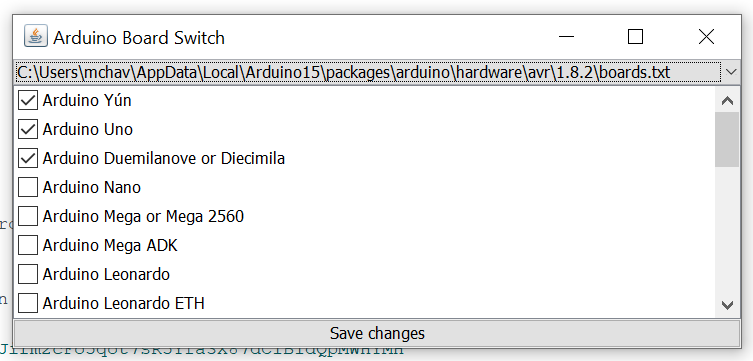
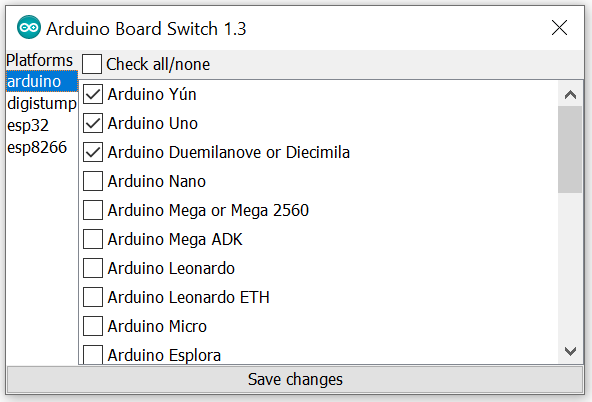
New version 1.3

Changed region(s): [[0.0, 0.0, 1.0, 1.0], [0.8209, 0.0914, 0.8818, 0.1219]]

diff --git a/org/binatrix/arduino/ArduinoBoardSwitch.java b/org/binatrix/arduino/ArduinoBoardSwitch.java
@@ -1,9 +1,12 @@
 package org.binatrix.arduino;
 
 import javax.swing.*;
+import javax.swing.event.ChangeEvent;
+import javax.swing.event.ChangeListener;
 import java.awt.BorderLayout;
 import java.awt.Container;
 import java.awt.event.*;
+import java.awt.*;
 import java.io.*;
 import java.util.*;
 import processing.app.Editor;
@@ -18,13 +21,15 @@ import processing.app.helpers.PreferencesMap;
  * Main arduino class implementing a new menu tool.
  * 
  * @author (Binatrix) 
- * @version (1.2)
+ * @version (1.3)
  */
 public class ArduinoBoardSwitch implements Tool {
     Editor editor;
     JScrollPane jlist;
     JList<CheckboxListItem> list;
     String boardFile;
+    private static final boolean ARDUINO = true;
+    private static final String VERSION = "1.3";
 
     public void init(Editor editor) {
         this.editor = editor;
@@ -36,12 +41,15 @@ public class ArduinoBoardSwitch implements Tool {
 
     @SuppressWarnings("unchecked")
     public void run() {
-        JDialog frame = new JDialog(editor, "Arduino Board Switch", true);
+        JDialog frame = new JDialog(editor, "Arduino Board Switch " + VERSION, true);
+        frame.setPreferredSize(new Dimension(600, 400));
         frame.setDefaultCloseOperation(JFrame.DISPOSE_ON_CLOSE);
         frame.addWindowListener(new WindowAdapter() {
                 @Override
                 public void windowClosed(WindowEvent e) {
-                    editor.statusNotice("Arduino Board Switch plugin closed");
+                    if (ARDUINO) {
+                        editor.statusNotice("Arduino Board Switch plugin closed");
+                    }
                 }
             });
 
@@ -51,61 +59,122 @@ public class ArduinoBoardSwitch implements Tool {
         button.addActionListener(new ActionListener() {
                 @Override
                 public void actionPerformed(ActionEvent e) {
-                    saveBoard(boardFile);
+                    if (ARDUINO) {
+                        saveBoard(boardFile);
+                    }
                 }
             });
 
         Platform[] platforms = listPlatforms();
-        JComboBox combo = new JComboBox();
+        DefaultListModel dlm = new DefaultListModel();
         for(Platform p: platforms) {
-            combo.addItem(p);
+            dlm.addElement(p);
         }
-        combo.addActionListener(new ActionListener() {
-                @Override
-                public void actionPerformed(ActionEvent e) {
-                    loadList((Platform)combo.getSelectedItem());
+        JList combo = new JList();
+        combo.setModel(dlm);
+        combo.addMouseListener(new MouseAdapter() {
+                public void mouseClicked(MouseEvent e) {
+                    if (e.getClickCount() == 1) {
+                        loadList((Platform)combo.getSelectedValue());
+                    }
                 }
             });
+        combo.addKeyListener(new KeyAdapter() {
+                public void keyPressed(KeyEvent e) {
+                    if (e.getKeyCode() == KeyEvent.VK_ENTER) {
+                        loadList((Platform)combo.getSelectedValue());
+                    }
+                }
+
+                public void keyReleased(KeyEvent e) {
+                    if (e.getKeyCode() == KeyEvent.VK_UP || e.getKeyCode() == KeyEvent.VK_DOWN) {
+                        loadList((Platform)combo.getSelectedValue());
+                    }
+                }
+            });
+        combo.setSelectedIndex(0);
+        loadList((Platform)combo.getSelectedValue());
+        /*
+        JComboBox combo = new JComboBox();
+        for(Platform p: platforms) {
+        combo.addItem(p);
+        }
+        combo.addActionListener(new ActionListener() {
+        @Override
+        public void actionPerformed(ActionEvent e) {
         loadList((Platform)combo.getSelectedItem());
+        }
+        });
+        loadList((Platform)combo.getSelectedItem());
+         */
+
+        JCheckBox check = new JCheckBox("Check all/none");
+        check.addItemListener(new ItemListener() {
+
+                public void itemStateChanged(ItemEvent e) {
+                    int est = e.getStateChange();
+                    int len = list.getModel().getSize();
+                    for(int i=0; i<len; i++) {
+                        CheckboxListItem item = (CheckboxListItem) list.getModel().getElementAt(i);
+                        item.setSelected(est == 1);
+                        list.repaint(list.getCellBounds(i, i));
+                    }
+                }
+            });
+
+        JPanel pane1 = new JPanel(new BorderLayout());
+        pane1.add(new JLabel("Platforms"), BorderLayout.NORTH);
+        pane1.add(combo, BorderLayout.CENTER);
+
+        JPanel pane2 = new JPanel(new BorderLayout());
+        pane2.add(check, BorderLayout.NORTH);
+        pane2.add(jlist, BorderLayout.CENTER);
 
         Container pane = frame.getContentPane();
-        pane.add(combo, BorderLayout.PAGE_START);
-        pane.add(jlist, BorderLayout.CENTER);
-        pane.add(button, BorderLayout.PAGE_END);
+        pane.add(pane1, BorderLayout.WEST);
+        pane.add(pane2, BorderLayout.CENTER);
+        pane.add(button, BorderLayout.SOUTH);
         frame.pack();
         frame.setLocationRelativeTo(null);
         frame.setVisible(true);
     }
 
     CheckboxListItem[] getBoards(Platform platform) {
-        List<CheckboxListItem> boards = new ArrayList<CheckboxListItem>();
-        boardFile = platform.getPath();
-        editor.statusNotice("File " + boardFile + " loaded");
+        java.util.List<CheckboxListItem> boards = new ArrayList<CheckboxListItem>();
+        if (ARDUINO) {
+            boardFile = platform.getPath();
+            editor.statusNotice("File " + boardFile + " loaded");
 
-        try {
-            TargetPackage targetPackage = BaseNoGui.getTargetPackage(platform.getPackageId());
-            if (targetPackage == null) 
-                throw new Exception("Package " + targetPackage.getId() + " not found");
-            TargetPlatform targetPlatform = targetPackage.get(platform.getId());
-            if (targetPlatform == null) 
-                throw new Exception("Platform " + platform.getId() + " not found");
-            for (TargetBoard board : targetPlatform.getBoards().values()) {
-                String tag = board.getId();
-                String name = board.getName();
-                PreferencesMap pref = board.getPreferences();
-                boolean hidden = new Boolean(pref.get("hide", "false"));
-                boards.add(new CheckboxListItem(tag, name, !hidden));
+            try {
+                TargetPackage targetPackage = BaseNoGui.getTargetPackage(platform.getPackageId());
+                if (targetPackage == null) 
+                    throw new Exception("Package " + targetPackage.getId() + " not found");
+                TargetPlatform targetPlatform = targetPackage.get(platform.getId());
+                if (targetPlatform == null) 
+                    throw new Exception("Platform " + platform.getId() + " not found");
+                for (TargetBoard board : targetPlatform.getBoards().values()) {
+                    String tag = board.getId();
+                    String name = board.getName();
+                    PreferencesMap pref = board.getPreferences();
+                    boolean hidden = new Boolean(pref.get("hide", "false"));
+                    boards.add(new CheckboxListItem(tag, name, !hidden));
+                }
+            }
+            catch (Exception e)
+            {
+                editor.statusError(e.getMessage());
             }
         }
-        catch (Exception e)
-        {
-            editor.statusError(e.getMessage());
+        else {
+            boards.add(new CheckboxListItem("tag1", "Name 1", false));
+            boards.add(new CheckboxListItem("tag2", "Name 2", false));
+            boards.add(new CheckboxListItem("tag3", "Name 3", false));
         }
         return boards.toArray(new CheckboxListItem[boards.size()]);
     }
 
     void saveBoard(String file) {
-        List<String> lines = new ArrayList<String>();
+        java.util.List<String> lines = new ArrayList<String>();
 
         try (BufferedReader br = new BufferedReader(new FileReader(file))) {
             String line;
@@ -144,14 +213,19 @@ public class ArduinoBoardSwitch implements Tool {
     }
 
     Platform[] listPlatforms() {
-        List<Platform> files = new ArrayList<Platform>();
-        for (TargetPackage targetPackage : BaseNoGui.packages.values()) {
-            for (TargetPlatform targetPlatform : targetPackage.platforms()) {
-                File f = new File(targetPlatform.getFolder(), "boards.txt");
-                files.add(new Platform (targetPackage.getId(), targetPlatform.getId(), f.getAbsolutePath()));
-            }
-        }  
-        editor.statusNotice("Found " + files.size() + " platforms");
+        java.util.List<Platform> files = new ArrayList<Platform>();
+        if (ARDUINO) {
+            for (TargetPackage targetPackage : BaseNoGui.packages.values()) {
+                for (TargetPlatform targetPlatform : targetPackage.platforms()) {
+                    File f = new File(targetPlatform.getFolder(), "boards.txt");
+                    files.add(new Platform (targetPackage.getId(), targetPlatform.getId(), f.getAbsolutePath()));
+                }
+            } 
+            editor.statusNotice("Found " + files.size() + " platforms");
+        }
+        else {
+            files.add(new Platform ("aaa", "aaa", "c:\\path1\\path2\\path3\\boards.txt"));
+        }
         return files.toArray(new Platform[files.size()]);
     }
 
@@ -171,5 +245,9 @@ public class ArduinoBoardSwitch implements Tool {
                 }
             });
         jlist.setViewportView(list);
+    }
+
+    public static void main () {
+        new ArduinoBoardSwitch().run();
     }
 }

diff --git a/org/binatrix/arduino/Platform.java b/org/binatrix/arduino/Platform.java
@@ -23,6 +23,6 @@ public class Platform
     }
 
     public String toString() {
-        return path;
+        return packageId; //path;
     }
 }
